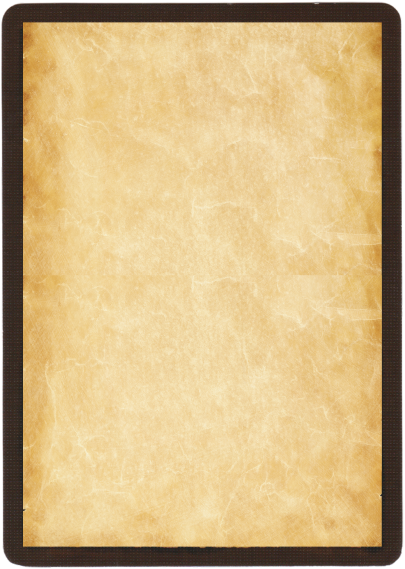
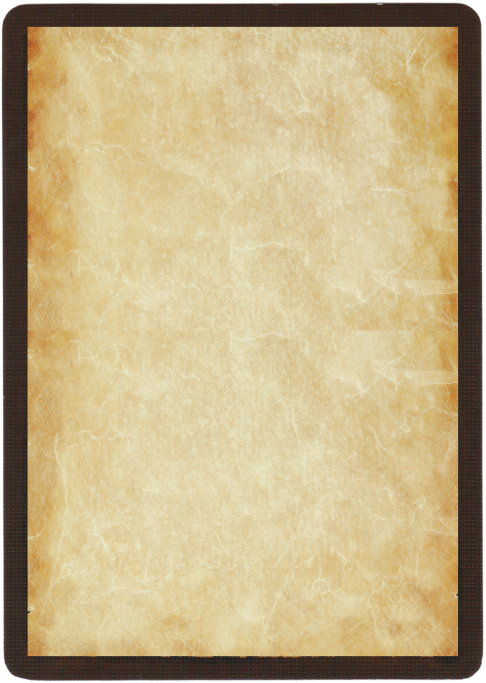
Update items page
Increases the height of the items list to take display as many items as possible. Changes the Welcome card bg image to better match the items card bg image.

Changed region(s): [[0.0296, 0.0299, 0.0593, 0.9561]]

diff --git a/styles.css b/styles.css
@@ -1383,7 +1383,7 @@ fieldset#choose-items button#close-modal {
 
 .items-container {
     width: max-content;
-    height: 78vh;
+    height: 90vh;
     overflow: auto;
     padding: 5px 1vw;
     position: relative;
